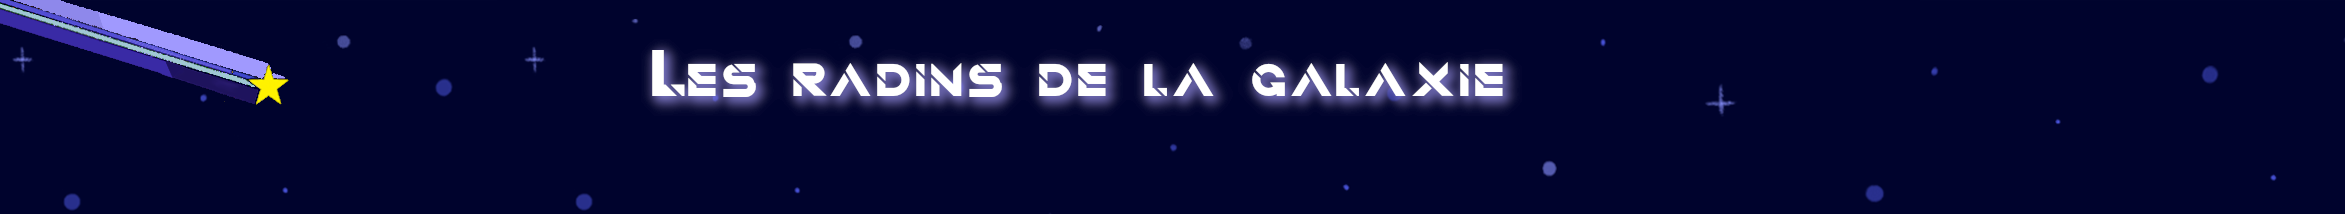
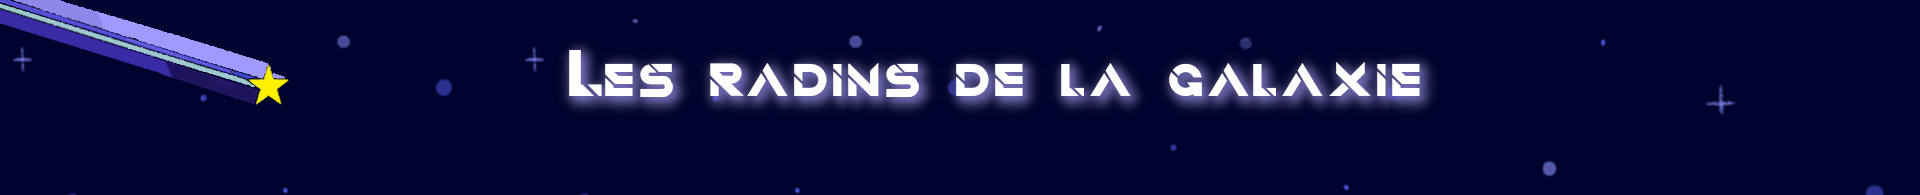
décalage vers la gauche header + maj2

diff --git a/src/main/webapp/content/scss/global.scss b/src/main/webapp/content/scss/global.scss
@@ -151,9 +151,9 @@ END FOOTER
 
 /* Header/Blog Title */
 .headertest {
-  padding: 30px;
-  text-align: center;
+  width: 100%;
   background: url('/../../content/images/bg_header.png');
+  background-size: cover;
   height: 160px;
 }
 
